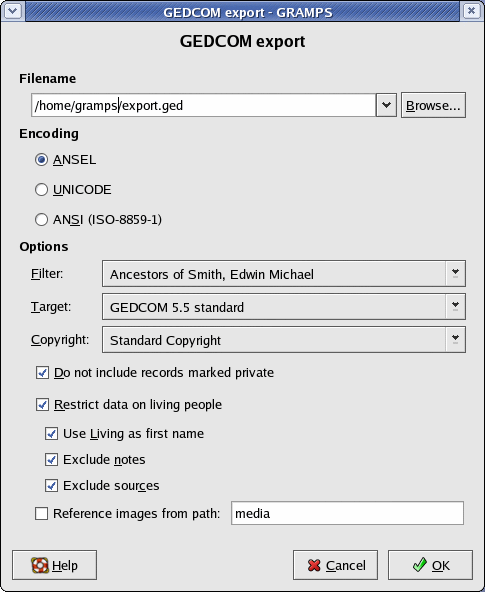
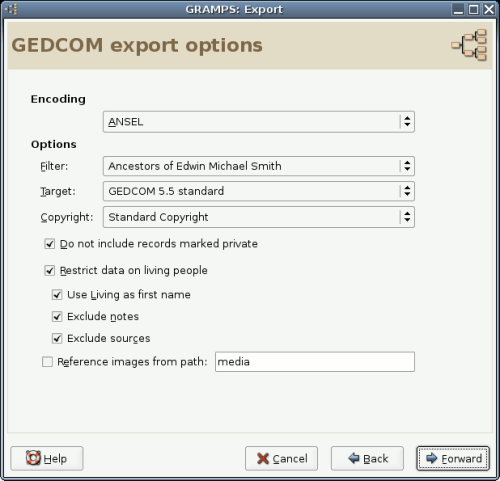
* doc/gramps-manual/C/usage.xml: Update. * doc/gramps-manual/C/gramps-manual.xml: Chunk to depth 3. * doc/gramps-manual/C/figures/gedcom-export.png: Update. * doc/gramps-manual/C/figures/export-druid.png: Add figure. * src/Exporter.py: Change labels, support CD export (lame). * src/WriteGedcom.py: C
git-svn-id: svn+ssh://svn.code.sf.net/p/gramps/code/trunk/gramps2@4059 4ae1f11a-8b86-4847-b8af-ab372f36d1fd

Changed region(s): [[0.0, 0.0, 1.0, 1.0], [0.9278, 0.842, 0.9588, 0.8732]]

diff --git a/src/plugins/WriteCD.py b/src/plugins/WriteCD.py
@@ -1,7 +1,7 @@
 #
 # Gramps - a GTK+/GNOME based genealogy program
 #
-# Copyright (C) 2000-2004  Donald N. Allingham
+# Copyright (C) 2000-2005  Donald N. Allingham
 #
 # This program is free software; you can redistribute it and/or modify
 # it under the terms of the GNU General Public License as published by
@@ -29,6 +29,7 @@
 #-------------------------------------------------------------------------
 import os
 from cStringIO import StringIO
+from gettext import gettext as _
 
 #-------------------------------------------------------------------------
 #
@@ -56,8 +57,6 @@ import const
 import QuestionDialog
 import ImgManip
 
-from gettext import gettext as _
-
 _title_string = _("Export to CD")
 
 #-------------------------------------------------------------------------
@@ -65,12 +64,15 @@ _title_string = _("Export to CD")
 # writeData
 #
 #-------------------------------------------------------------------------
-def writeData(database,person):
+def writeData(database,filename,person,option_box=None):
+    ret = 0
     try:
-        PackageWriter(database)
+        writer = PackageWriter(database,filename)
+        ret = writer.export()
     except:
         import DisplayTrace
         DisplayTrace.DisplayTrace()
+    return ret
     
 #-------------------------------------------------------------------------
 #
@@ -79,56 +81,19 @@ def writeData(database,person):
 #-------------------------------------------------------------------------
 class PackageWriter:
 
-    def __init__(self,database,cl=0,name=""):
+    def __init__(self,database,filename="",cl=0):
         self.db = database
         self.cl = cl
-        self.name = name
-	
+        self.filename = filename
+
+    def export(self):
         if self.cl:
-	    self.cl_run()
+            self.cl_run()
         else:
-            base = os.path.dirname(__file__)
-            glade_file = "%s/%s" % (base,"cdexport.glade")
-        
-            dic = {
-                "destroy_passed_object" : Utils.destroy_passed_object,
-                "on_ok_clicked" : self.on_ok_clicked,
-                "on_help_clicked" : self.on_help_clicked
-                }
-        
-            self.top = gtk.glade.XML(glade_file,"packageExport","gramps")
+            self.gui_run()
 
-            Utils.set_titles(self.top.get_widget('packageExport'),
-                         self.top.get_widget('title'),_title_string)
-        
-            self.top.signal_autoconnect(dic)
-            self.top.get_widget("packageExport").show()
-
-    def copy_file(self,src,dest):
-        original = open(src,"r")
-        destobj = URI(dest)
-        target = create(destobj,OPEN_WRITE)
-        done = 0
-        while 1:
-            buf = original.read(2048)
-            if buf == '':
-                break
-            else:
-                target.write(buf)
-        target.close()
-        original.close()
-
-    def make_thumbnail(self,dbname,root,path):
-        img = ImgManip.ImgManip(path)
-        data = img.jpg_scale_data(const.thumbScale,const.thumbScale)
-        
-        uri = URI('burn:///%s/.thumb/%s.jpg' % (dbname,root))
-        th = create(uri,OPEN_WRITE)
-        th.write(data)
-        th.close()
-                       
     def cl_run(self):
-        base = os.path.basename(self.name)
+        base = os.path.basename(self.filename)
 
         try:
             uri = URI('burn:///%s' % base)
@@ -168,15 +133,11 @@ class PackageWriter:
         gfile.write_handle(g)
         g.close()
 
-    def on_help_clicked(self,obj):
-        """Display the relevant portion of GRAMPS manual"""
-        gnome.help_display('gramps-manual','export-data')
-
-    def on_ok_clicked(self,obj):
-        Utils.destroy_passed_object(obj)
+    def gui_run(self):
         missmedia_action = 0
 
-        base = os.path.basename(self.db.get_save_path())
+#        base = os.path.basename(self.db.get_save_path())
+        base = os.path.basename(self.filename)
 
         try:
             uri = URI('burn:///%s' % base)
@@ -261,10 +222,10 @@ class PackageWriter:
                 newfile = fs_top.get_filename()
                 if os.path.isfile(newfile):
                     self.copy_file(newfile,'burn:///%s/%s' % (base,obase))
-    	    	    ntype = GrampsMime.get_type(newfile)
-		    if ntype[0:5] == "image":
+                    ntype = GrampsMime.get_type(newfile)
+                    if ntype[0:5] == "image":
                         self.make_thumbnail(base,obase,newfile)
-		    
+    
             fs_top = gtk.FileSelection("%s - GRAMPS" % _("Select file"))
             fs_top.hide_fileop_buttons()
             fs_top.ok_button.connect('clicked',fs_ok_clicked)
@@ -290,7 +251,7 @@ class PackageWriter:
                 self.object_handle = obj.get_handle()
                 if missmedia_action == 0:
                     mmd = QuestionDialog.MissingMediaDialog(_("Media object could not be found"),
-	                _("%(file_name)s is referenced in the database, but no longer exists. " 
+                        _("%(file_name)s is referenced in the database, but no longer exists. " 
                             "The file may have been deleted or moved to a different location. " 
                             "You may choose to either remove the reference from the database, " 
                             "keep the reference to the missing file, or select a new file." 
@@ -310,12 +271,43 @@ class PackageWriter:
         gfile.write_handle(g)
         g.close()
         os.system("nautilus --no-desktop burn:///")
-    
+        return 1
+
+    def copy_file(self,src,dest):
+        original = open(src,"r")
+        destobj = URI(dest)
+        target = create(destobj,OPEN_WRITE)
+        done = 0
+        while 1:
+            buf = original.read(2048)
+            if buf == '':
+                break
+            else:
+                target.write(buf)
+        target.close()
+        original.close()
+
+    def make_thumbnail(self,dbname,root,path):
+        img = ImgManip.ImgManip(path)
+        data = img.jpg_scale_data(const.thumbScale,const.thumbScale)
+        
+        uri = URI('burn:///%s/.thumb/%s.jpg' % (dbname,root))
+        th = create(uri,OPEN_WRITE)
+        th.write(data)
+        th.close()
+
 #-------------------------------------------------------------------------
 #
 # Register the plugin
 #
 #-------------------------------------------------------------------------
-from PluginMgr import register_export
+_title = _('Export to CD (p_ortable XML)')
+_description = _('Exporting to CD copies all your data and media '
+    'object files to the CD Creator. You may later burn the CD '
+    'with this data, and that copy will be completely portable '
+    'across different machines and binary architectures.')
+_config = None
+_filename = 'burn'
 
-register_export(writeData,_title_string)
+from PluginMgr import register_export
+register_export(writeData,_title,_description,_config,_filename)

diff --git a/src/Exporter.py b/src/Exporter.py
@@ -93,6 +93,7 @@ class Exporter:
 
         self.d = Druid()
         self.w.add(self.d)
+        self.w.set_title(_('GRAMPS: Export'))
         self.d.add(self.build_info_page())
         self.d.add(self.build_format_page())
         self.file_sel_page = self.build_file_sel_page()
@@ -314,6 +315,7 @@ class Exporter:
         p.set_logo(self.logo)
 
         self.chooser = gtk.FileChooserWidget(gtk.FILE_CHOOSER_ACTION_SAVE)
+        self.chooser.set_local_only(gtk.FALSE)
         p.append_item("",self.chooser,"")
         # Dirty hack to enable proper EXPAND and FILL properties of the chooser
         parent = self.chooser.get_parent()
@@ -339,6 +341,8 @@ class Exporter:
 
         if ext == 'gramps':
             new_filename = os.path.expanduser(default_dir + 'data.gramps')
+        elif ext == 'burn':
+            new_filename = os.path.basename(self.parent.db.get_save_path())
         else:
             new_filename = Utils.get_new_filename(ext,default_dir)
         self.chooser.set_current_folder(default_dir)

diff --git a/src/ArgHandler.py b/src/ArgHandler.py
@@ -521,13 +521,13 @@ class ArgHandler:
                 print "Error creating %s" % filename
                 os._exit(1)
         elif format == 'iso':
-            print "\tISO format is temporarily disabled."
-            #import WriteCD
-            #try:
-            #    WriteCD.PackageWriter(self.parent.db,1,filename)
-            #except:
-            #    print "Error exporting %s" % filename
-            #    os._exit(1)
+            import WriteCD
+            try:
+                writer = WriteCD.PackageWriter(self.parent.db,filename,1)
+                ret = writer.export()
+            except:
+                print "Error exporting %s" % filename
+                os._exit(1)
         elif format == 'wft':
             import WriteFtree
             try:

diff --git a/src/WriteGedcom.py b/src/WriteGedcom.py
@@ -1235,10 +1235,9 @@ def exportData(database,filename,person,option_box):
 #
 #
 #-------------------------------------------------------------------------
-_title = _('GE_DCOM 5.5')
+_title = _('GE_DCOM')
 _description = _('GEDCOM is used to transfer data between genealogy programs. '
         'Most genealogy software will accept a GEDCOM file as input. ')
-#option_box = GedcomWriterOptionBox()
 _config = (_('GEDCOM export options'),GedcomWriterOptionBox)
 _filename = 'ged'
 

diff --git a/src/plugins/WritePkg.py b/src/plugins/WritePkg.py
@@ -199,7 +199,7 @@ class PackageWriter:
 # Register the plugin
 #
 #-------------------------------------------------------------------------
-_title = _('GRAM_PS package')
+_title = _('GRAM_PS package (portable XML)')
 _description = _('GRAMPS package is an archived XML database together with the media object files.')
 _config = None
 _filename = 'gpkg'

diff --git a/src/WriteXML.py b/src/WriteXML.py
@@ -192,6 +192,7 @@ class XmlWriter:
 
         self.write_xml_data()
         g.close()
+        return 1
             
     def write_xml_data(self):
 
